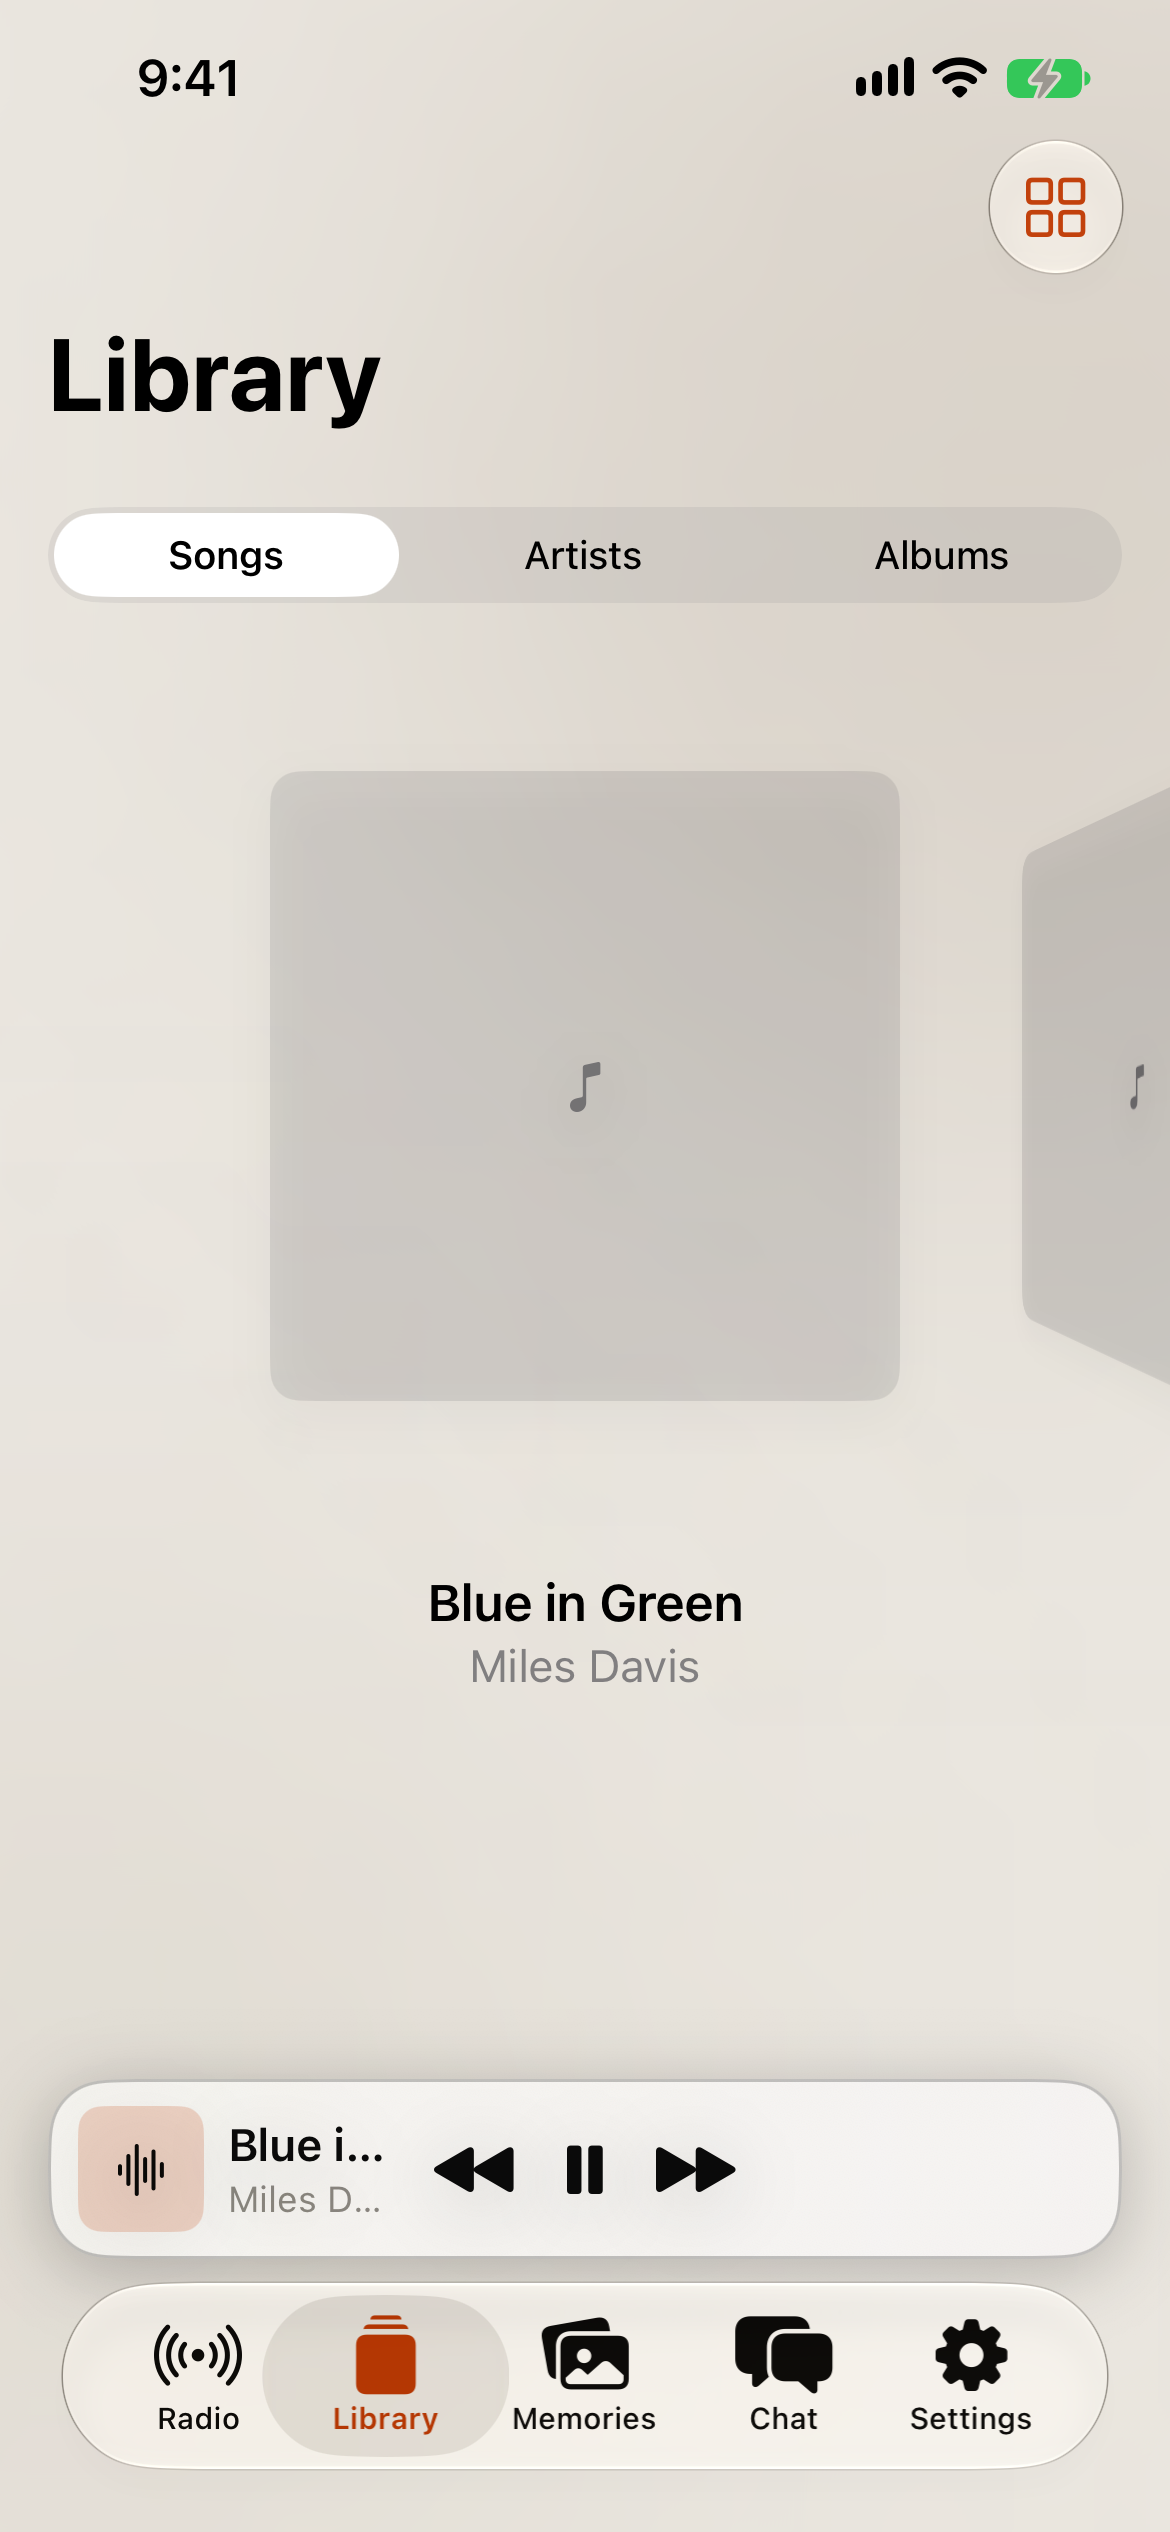
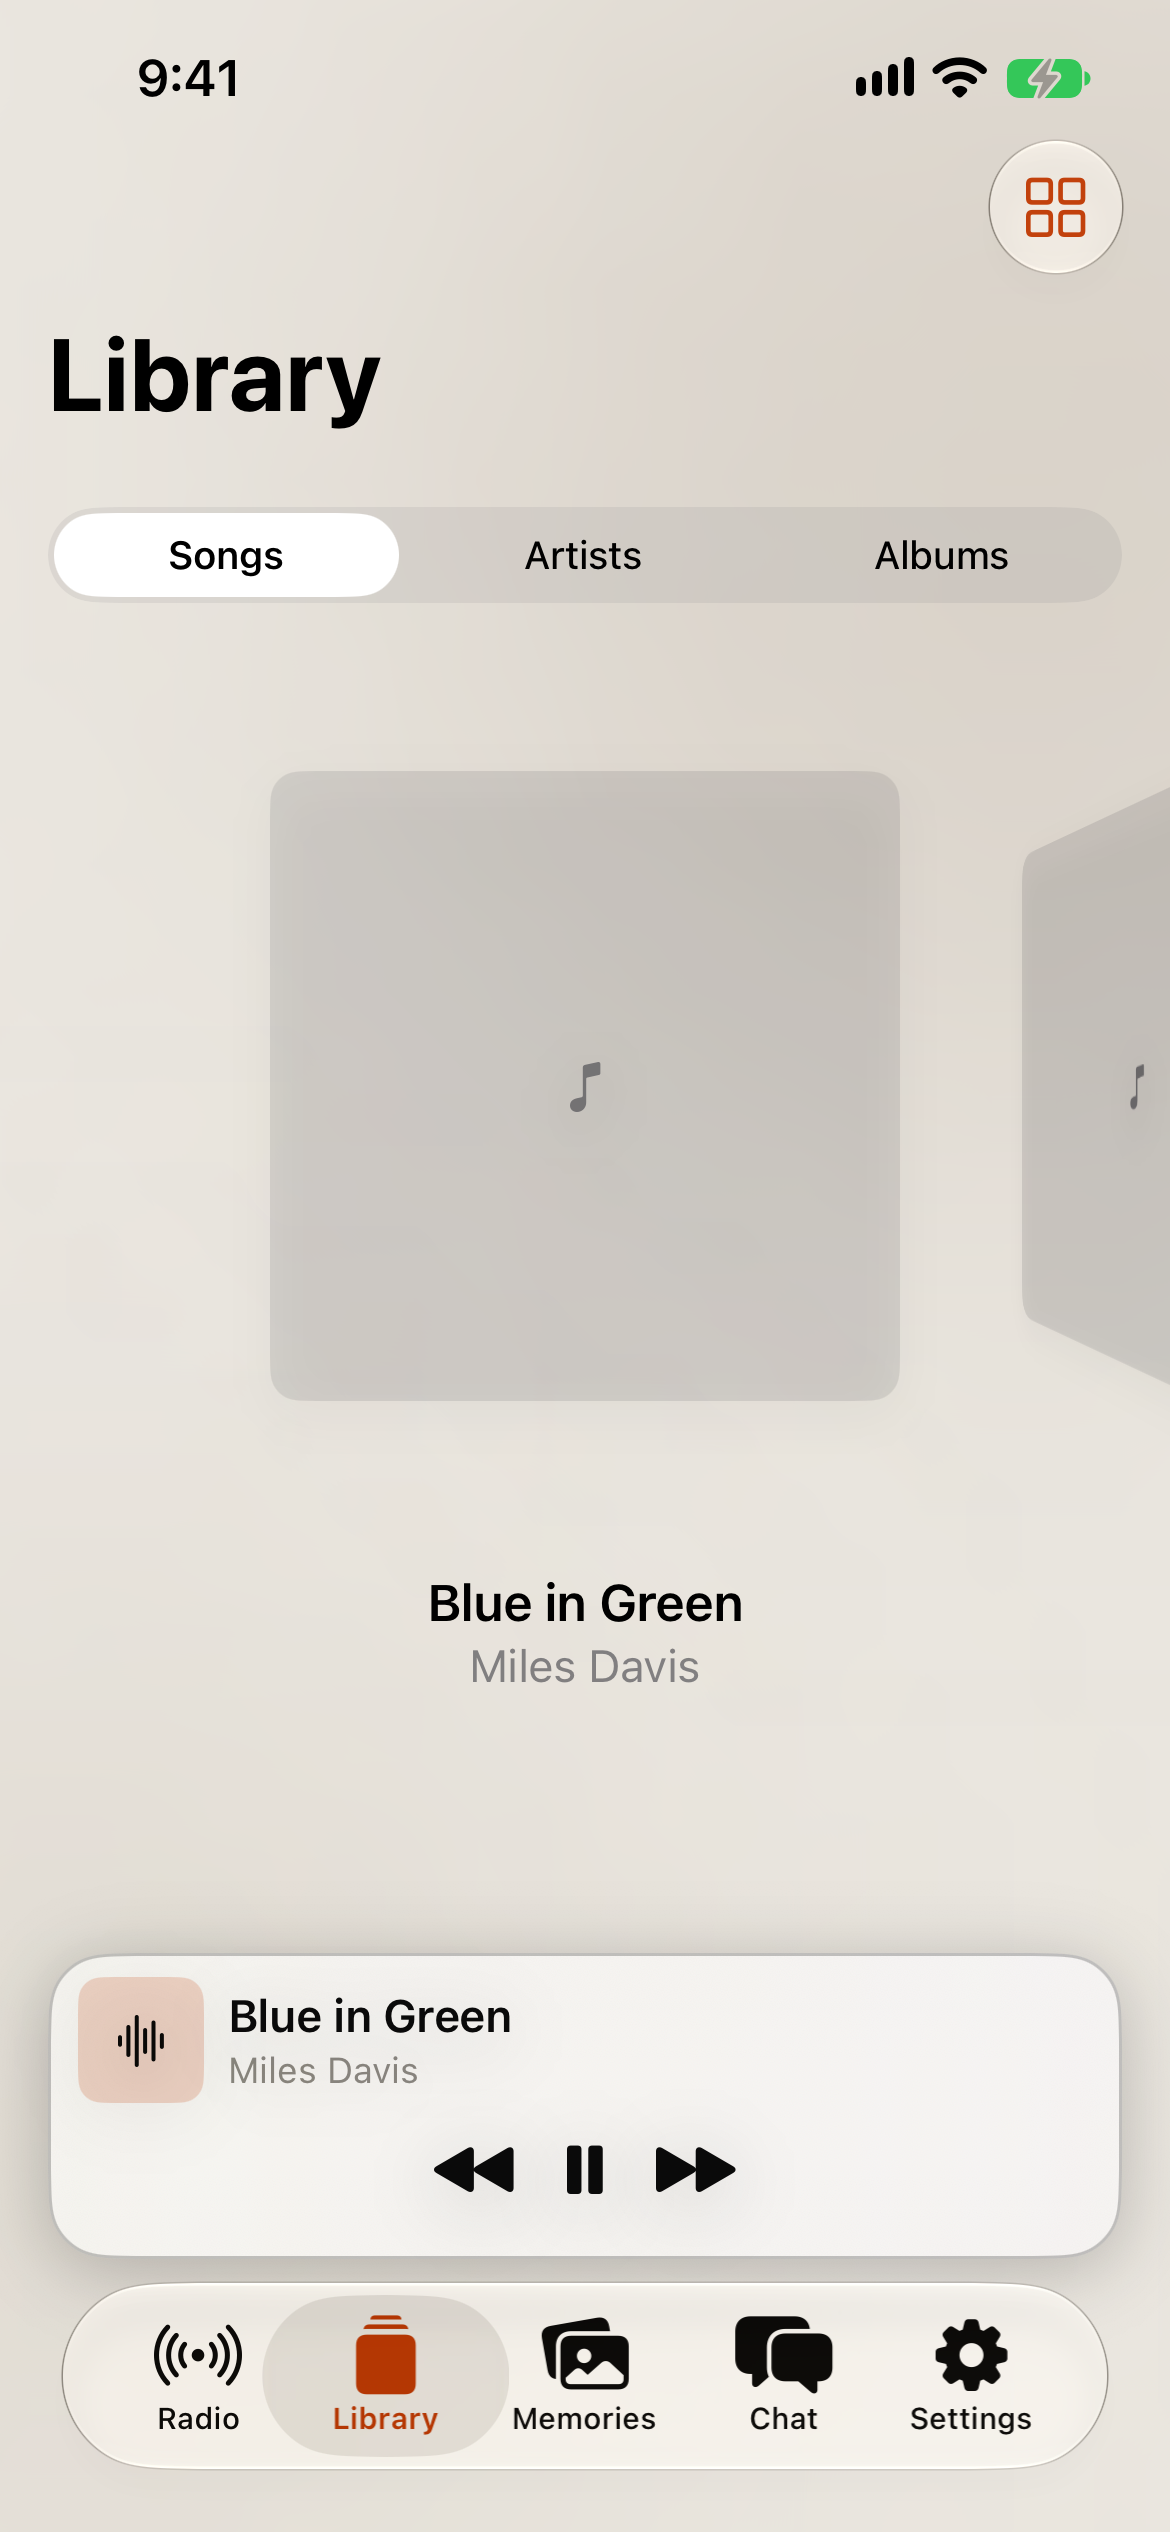
Island: text on its own row so the centred controls do not squeeze it; merge integration/juke-app

Changed region(s): [[0.0308, 0.7488, 0.9846, 0.9048]]

diff --git a/mobile/ios/jukeapp/JukeApp/Views/Radio/RadioScreen.swift b/mobile/ios/jukeapp/JukeApp/Views/Radio/RadioScreen.swift
@@ -691,8 +691,9 @@ struct MiniPlayerPill: View {
 
     var body: some View {
         let radio = model.radio
-        // The controls stay in the middle of the island; what is playing gives way on the left.
-        CenteredControlsRow {
+        // Two rows: what is playing (or why Next failed) has the island's full width, and the controls sit
+        // below it, centred in the island and so in the viewport, whatever the text says.
+        VStack(spacing: 0) {
             HStack(spacing: 8) {
                 if radio.isOnAir, let track = radio.track {
                     MiniPlayerArtwork(url: track.artworkURL, local: nil, tint: model.atmosphere.primary)
@@ -703,18 +704,15 @@ struct MiniPlayerPill: View {
                     titles(model.nowPlaying.track?.title ?? "Listening for music",
                            model.nowPlaying.track.map { "\($0.artist) · \($0.source)" } ?? model.nowPlaying.status)
                 }
+                Spacer(minLength: 0)
+                if !radio.isOnAir {
+                    Menu {
+                        Button(model.nowPlaying.isListeningAroundMe ? "Stop Around Me" : "Identify Around Me") { Task { await model.nowPlaying.setAroundMe(!model.nowPlaying.isListeningAroundMe) } }
+                        Text("Apple Music and connected Spotify playback are checked automatically while Juke is active.")
+                    } label: { Image(systemName: "ellipsis.circle").font(.title3).frame(width: 30, height: 44) }
+                }
             }
-        } center: {
-            PlayerControlButtons()
-        } trailing: {
-            if !radio.isOnAir {
-                Menu {
-                    Button(model.nowPlaying.isListeningAroundMe ? "Stop Around Me" : "Identify Around Me") { Task { await model.nowPlaying.setAroundMe(!model.nowPlaying.isListeningAroundMe) } }
-                    Text("Apple Music and connected Spotify playback are checked automatically while Juke is active.")
-                } label: { Image(systemName: "ellipsis.circle").font(.title3).frame(width: 30, height: 44) }
-            } else {
-                Color.clear.frame(width: 1, height: 1)
-            }
+            PlayerControlButtons().frame(maxWidth: .infinity)
         }
         .padding(.horizontal, 10).padding(.vertical, 8)
         .background(.regularMaterial, in: RoundedRectangle(cornerRadius: MiniPlayerStyle.cornerRadius))
@@ -741,7 +739,7 @@ struct MiniPlayerPill: View {
         VStack(alignment: .leading, spacing: 2) {
             Text(title).font(.subheadline.bold()).lineLimit(1)
             Text(subtitle).font(.caption.weight(warning ? .semibold : .regular))
-                .foregroundStyle(warning ? HierarchicalShapeStyle.primary : .secondary).lineLimit(1)
+                .foregroundStyle(warning ? HierarchicalShapeStyle.primary : .secondary).lineLimit(2)
                 .scaleEffect(pulse && !reduceMotion ? 1.06 : 1, anchor: .leading)
                 .opacity(pulse && reduceMotion ? 0.45 : 1)
                 .accessibilityIdentifier("miniPlayer.status")

diff --git a/mobile/ios/jukeapp/JukeAppUITests/ControlsCenteredUITests.swift b/mobile/ios/jukeapp/JukeAppUITests/ControlsCenteredUITests.swift
@@ -65,4 +65,22 @@ final class ControlsCenteredUITests: XCTestCase {
         XCTAssertTrue(app.buttons["player.playPause"].waitForExistence(timeout: 5))
         assertCentered(app, ["player.previous", "player.playPause", "player.next"])
     }
+
+    /// The island keeps the controls in the middle without squeezing what it says: a failed Next's line
+    /// (and the song) read in full, not as "No new…".
+    @MainActor
+    func testIslandTextIsNotTruncatedWhileControlsStayCentred() {
+        let app = launch(["--uitesting-tab=library", "--uitesting-next-fails=exhausted"])
+        let next = app.buttons["player.next"]
+        XCTAssertTrue(next.waitForExistence(timeout: 15))
+        next.tap()
+        let status = app.staticTexts["miniPlayer.status"]
+        let expectedText = "No new songs on this station"
+        expectation(for: NSPredicate(format: "label == %@", expectedText), evaluatedWith: status)
+        waitForExpectations(timeout: 5)
+        let needed = (expectedText as NSString).size(withAttributes: [.font: UIFont.systemFont(ofSize: 12, weight: .semibold)  /* caption at the pinned L size */]).width
+        XCTAssertGreaterThanOrEqual(status.frame.width, needed - 1, "the failure line has the room it needs (\(status.frame.width) < \(needed))")
+        assertCentered(app, ["player.previous", "player.playPause", "player.next"])
+        add(shot("Island-failure-line"))
+    }
 }

diff --git a/mobile/ios/jukeapp/JukeApp/Views/Library/AlbumDetailView.swift b/mobile/ios/jukeapp/JukeApp/Views/Library/AlbumDetailView.swift
@@ -15,7 +15,7 @@ struct AlbumDetailView: View {
     @State private var state: CatalogLoad<CatalogAlbumDetail> = .loading
     @State private var message: String?
     /// Room under the list for the floating player and tab bar, so the last (or highlighted) rows can scroll clear of them.
-    @ScaledMetric private var islandInset: CGFloat = 130
+    @ScaledMetric private var islandInset: CGFloat = 165
 
     var body: some View {
         ScrollViewReader { proxy in

diff --git a/mobile/ios/jukeapp/JukeApp/Views/Memories/MemoryDeckView.swift b/mobile/ios/jukeapp/JukeApp/Views/Memories/MemoryDeckView.swift
@@ -243,7 +243,7 @@ private struct MemoryCard: View {
 /// Look-and-feel decisions, kept apart from the view so they can be tested.
 enum MemoryDeckStyle {
     /// Space reserved under the deck for the floating player island and tab bar.
-    static let islandInset: CGFloat = 150
+    static let islandInset: CGFloat = 185
 
     static func tilt(for id: UUID) -> Double {
         let value = id.uuid.0
